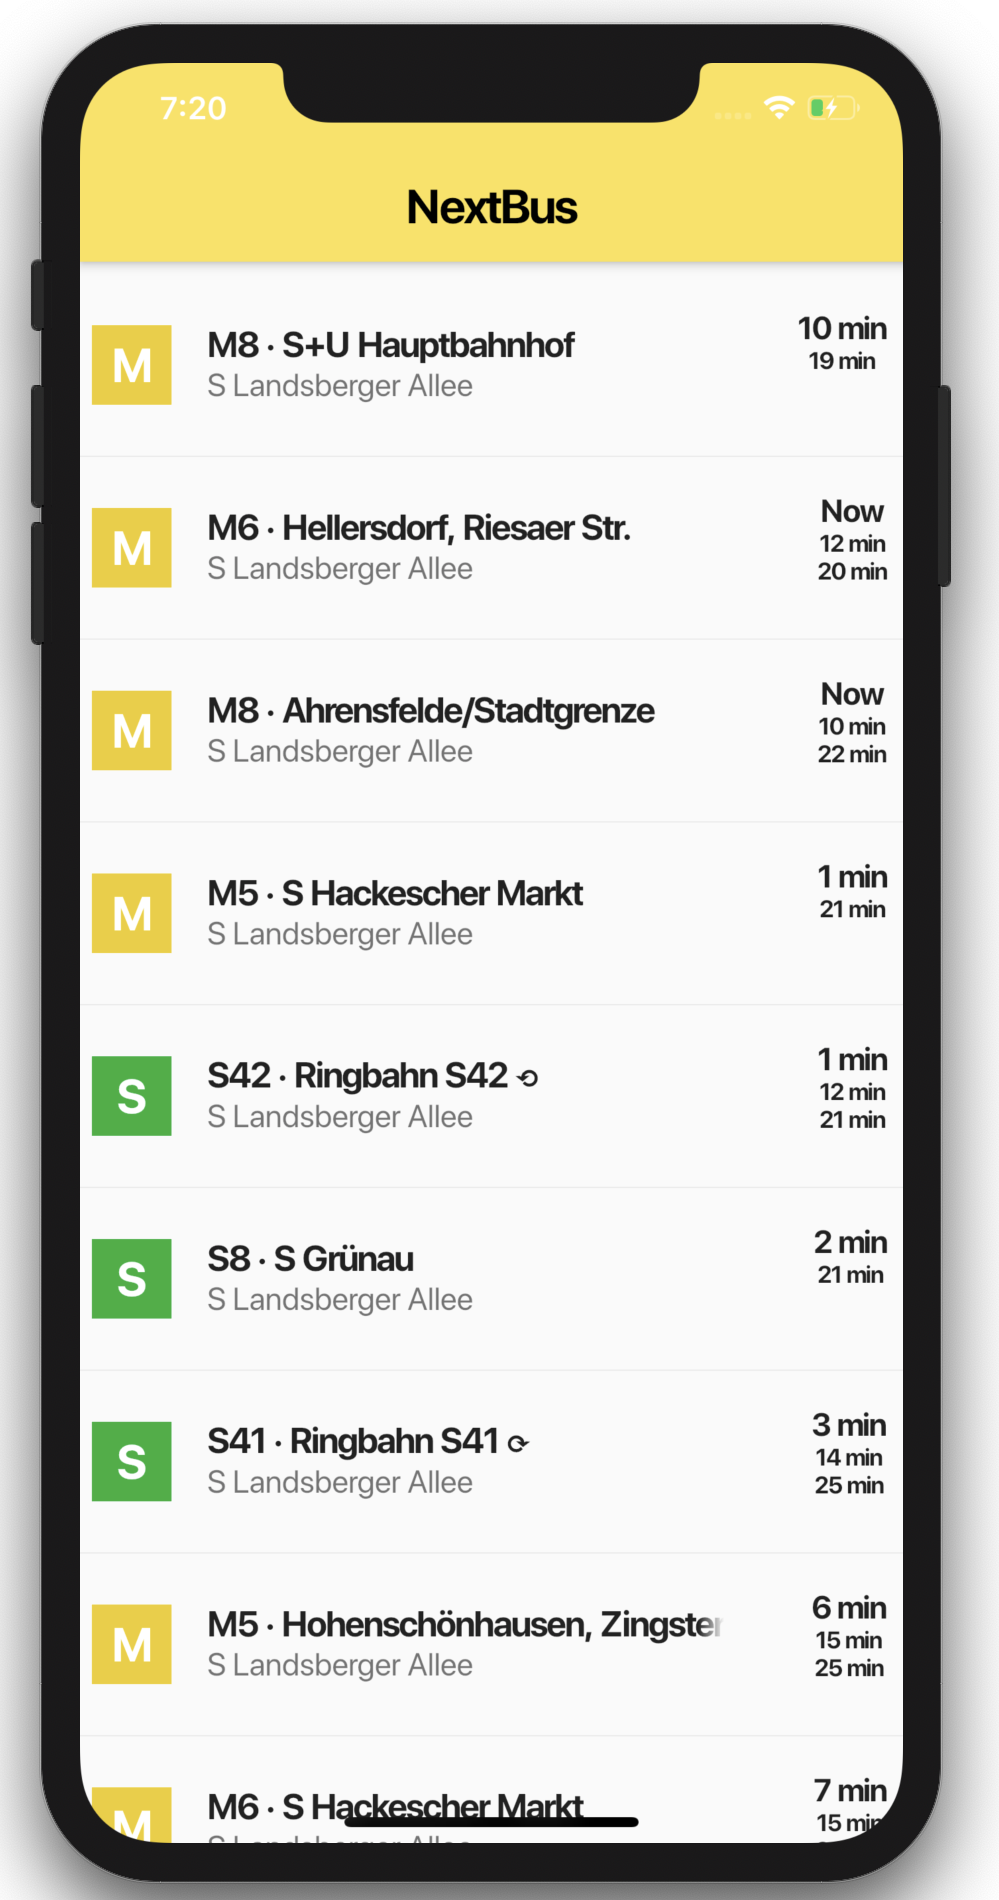
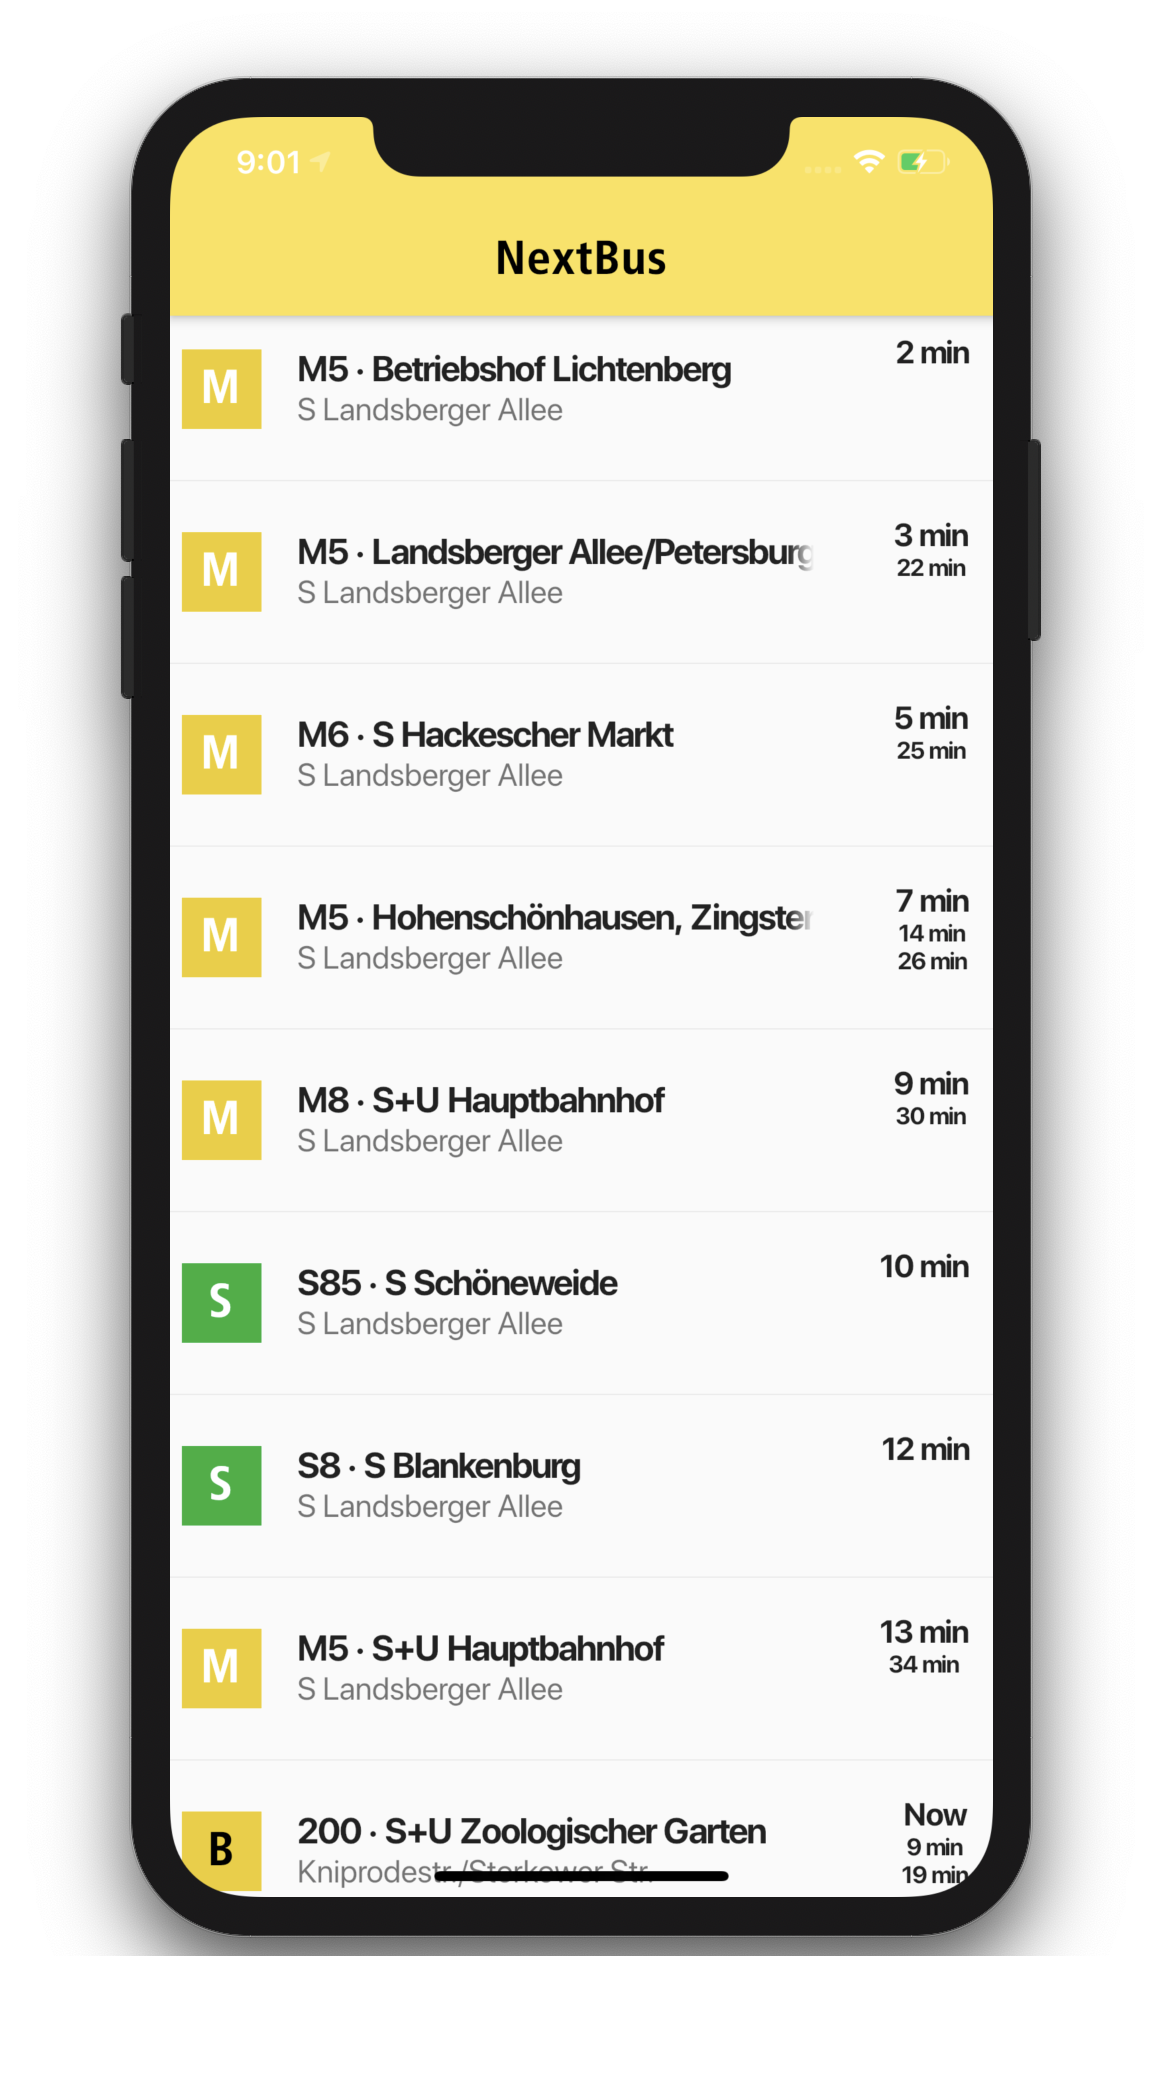
feat: add new fonts

diff --git a/lib/widgets/departure_view.dart b/lib/widgets/departure_view.dart
@@ -1,12 +1,11 @@
 import 'dart:async';
 
 import 'package:flutter/material.dart';
+import 'package:geolocator/geolocator.dart';
 import 'package:next_bus/models/network_error.dart';
 import 'package:next_bus/models/transit_departure.dart';
 import 'package:next_bus/network/api_client.dart';
 import 'package:next_bus/widgets/departure_list.dart';
-
-import 'package:geolocator/geolocator.dart';
 
 class DepartureView extends StatefulWidget {
   @override
@@ -16,6 +15,29 @@ class DepartureView extends StatefulWidget {
 class DepartureViewState extends State<DepartureView> {
   List<TransitDeparture> allDepartures;
   Timer timer;
+  GeolocationStatus geolocationStatus;
+
+  @override
+  Widget build(BuildContext context) {
+    final headerTitleStyle = TextStyle(
+        fontSize: 24, fontWeight: FontWeight.bold, color: Color(0xff000000), fontFamily: "TransitBold",);
+    return new Scaffold(
+      appBar: new AppBar(
+        title: new Text("NextBus", style: headerTitleStyle),
+        backgroundColor: Color(0xffFBE352),
+      ),
+      body: new Container(
+        child: new Center(
+            child: new RefreshIndicator(
+          backgroundColor: Color(0xffFBE352),
+          color: Color(0xff000000),
+          child: new DepartureList(
+              departures: allDepartures, geolocationStatus: geolocationStatus),
+          onRefresh: _refreshDepartures,
+        )),
+      ),
+    );
+  }
 
   @override
   void initState() {
@@ -25,11 +47,10 @@ class DepartureViewState extends State<DepartureView> {
     _refreshDepartures();
   }
 
-  Future<void> _refreshDepartures() async {
+  Future<Null> _refreshDepartures() async {
     debugPrint('Refreshing departures...');
+    geolocationStatus = await Geolocator().checkGeolocationPermissionStatus();
 
-    GeolocationStatus geolocationStatus =
-        await Geolocator().checkGeolocationPermissionStatus();
     if (geolocationStatus == GeolocationStatus.denied) {
       _showLocationDialog();
       debugPrint("No location permission available.");
@@ -38,16 +59,16 @@ class DepartureViewState extends State<DepartureView> {
     Position position = await Geolocator()
         .getCurrentPosition(desiredAccuracy: LocationAccuracy.high);
     debugPrint("Found Location: $position");
-    BVGAPIClient.getDeparturesNearby(position.latitude, position.longitude)
-        .then((result) {
-      setState(() {
-        if (result.runtimeType == NetworkError) {
-          print(result.message);
-          // @TODO: Handle network errors better.
-        } else {
-          this.allDepartures = result;
-        }
-      });
+
+    var result = await BVGAPIClient.getDeparturesNearby(
+        position.latitude, position.longitude);
+    setState(() {
+      if (result.runtimeType == NetworkError) {
+        print(result.message);
+        // @TODO: Handle network errors better.
+      } else {
+        this.allDepartures = result;
+      }
     });
   }
 
@@ -59,37 +80,19 @@ class DepartureViewState extends State<DepartureView> {
         // return object of type Dialog
         return AlertDialog(
           title: new Text("Location Sharing Disabled"),
-          content: new Text("NextBus needs to know where you are to get stops that are near you. We do not save or share your location."),
+          content: new Text(
+              "NextBus needs to know where you are to get stops that are near you. We do not save or share your location."),
           actions: <Widget>[
             // usually buttons at the bottom of the dialog
             new FlatButton(
-              child: new Text("Close")
+              child: new Text("Close"),
+              onPressed: () {
+                Navigator.of(context).pop();
+              },
             ),
           ],
         );
       },
-    );
-  }
-
-
-  @override
-  Widget build(BuildContext context) {
-    final headerTitleStyle = TextStyle(
-        fontSize: 24, fontWeight: FontWeight.bold, color: Color(0xff000000));
-    return new Scaffold(
-      appBar: new AppBar(
-        title: new Text("NextBus", style: headerTitleStyle),
-        backgroundColor: Color(0xffFBE352),
-      ),
-      body: new Container(
-        child: new Center(
-            child: new RefreshIndicator(
-          child: new DepartureList(
-            departures: allDepartures,
-          ),
-          onRefresh: _refreshDepartures,
-        )),
-      ),
     );
   }
 }

diff --git a/lib/widgets/departure_list.dart b/lib/widgets/departure_list.dart
@@ -1,12 +1,15 @@
 import 'package:flutter/material.dart';
+import 'package:geolocator/geolocator.dart';
 import 'package:next_bus/models/transit_departure.dart';
 import 'package:next_bus/models/transit_style.dart';
 
 // A UI to show the list of departures with pull-to-refresh feature.
 class DepartureList extends StatefulWidget {
-  DepartureList({Key key, this.departures}) : super(key: key);
+  DepartureList({Key key, this.departures, this.geolocationStatus})
+      : super(key: key);
 
   final List<TransitDeparture> departures;
+  GeolocationStatus geolocationStatus;
 
   @override
   State<StatefulWidget> createState() {
@@ -18,7 +21,34 @@ class DepartureList extends StatefulWidget {
 class _DepartureListState extends State<DepartureList> {
   @override
   Widget build(BuildContext context) {
-    return _buildDepartureList(context, widget.departures);
+    return _buildDepartureList(
+        context, widget.departures, widget.geolocationStatus);
+  }
+
+  ListTile _buildItemsForEmptyListView(BuildContext context, int index) {
+    return ListTile(
+      contentPadding: EdgeInsets.only(
+          top: index == 0 ? 16.0 : 2.0, bottom: 2.0, right: 4.0, left: 4.0),
+      title: Text("↻ Pull to Refresh",
+          softWrap: false,
+          textAlign: TextAlign.center,
+          overflow: TextOverflow.fade,
+          style: TextStyle(
+              fontSize: 18,
+              fontWeight: FontWeight.bold,
+              color: Color(0x66444444))),
+      subtitle: Text(
+          widget.geolocationStatus != GeolocationStatus.granted
+              ? "Enable Location Permissions for NextBus to continue."
+              : "",
+          softWrap: false,
+          textAlign: TextAlign.center,
+          overflow: TextOverflow.fade,
+          style: TextStyle(
+              fontSize: 16,
+              fontWeight: FontWeight.bold,
+              color: Color(0x66444444))),
+    );
   }
 
   ListTile _buildItemsForListView(BuildContext context, int index) {
@@ -55,6 +85,7 @@ class _DepartureListState extends State<DepartureList> {
             style: TextStyle(
                 fontSize: 24,
                 fontWeight: FontWeight.bold,
+                fontFamily: "TransitBold",
                 color: transitStyle.textColor)));
   }
 
@@ -83,7 +114,7 @@ class _DepartureListState extends State<DepartureList> {
     }
 
     return Container(
-      padding: EdgeInsets.only(right: 4.0, left: 0.0, top: 0.0),
+      padding: EdgeInsets.only(right: 8.0, left: 0.0, top: 0.0),
       margin: EdgeInsets.all(0),
       width: 70,
       alignment: Alignment.topRight,
@@ -93,12 +124,15 @@ class _DepartureListState extends State<DepartureList> {
     );
   }
 
-  ListView _buildDepartureList(context, List<TransitDeparture> departures) {
+  ListView _buildDepartureList(context, List<TransitDeparture> departures,
+      GeolocationStatus geolocationStatus) {
     return new ListView.separated(
       physics: AlwaysScrollableScrollPhysics(),
       separatorBuilder: (BuildContext context, int index) => Divider(),
-      itemCount: departures != null ? departures.length : 0,
-      itemBuilder: _buildItemsForListView,
+      itemCount: departures != null ? departures.length : 1,
+      itemBuilder: departures != null
+          ? _buildItemsForListView
+          : _buildItemsForEmptyListView,
     );
   }
 }

diff --git a/lib/models/transit_departure.dart b/lib/models/transit_departure.dart
@@ -42,16 +42,16 @@ class TransitDeparture {
   factory TransitDeparture.fromJson(Map<String, dynamic> json) {
     int delay = json["line"]["delay"] == null ? 0 : json["line"]["delay"];
     DateTime departureTime;
-    if(json['when'] != null) {
+    if (json['when'] != null) {
       departureTime =
-      DateTime.parse(json['when']).add(Duration(minutes: delay));
+          DateTime.parse(json['when']).add(Duration(minutes: delay));
     }
     TransitType type = TransitType.values.firstWhere(
         (e) => e.toString() == "TransitType.${json["line"]["product"]}");
 
     return TransitDeparture(
         direction: json["direction"],
-        when: departureTime == null ? Set() :Set.from([departureTime]),
+        when: departureTime == null ? Set() : Set.from([departureTime]),
         name: json["line"]["name"],
         transitType: type,
         isNight: json["line"]["night"],
@@ -98,7 +98,7 @@ class TransitDepartureList {
   List<TransitDeparture> groupedDepartures() {
     Map<String, TransitDeparture> groupedDepartures = Map();
     for (TransitDeparture departure in this.departures) {
-      if(departure.when.length <= 0) {
+      if (departure.when.length <= 0) {
         continue;
       }
       var key = "${departure.name}/${departure.direction}";

diff --git a/lib/models/network_error.dart b/lib/models/network_error.dart
@@ -10,7 +10,8 @@ class NetworkError {
   NetworkError({this.message, this.headerCode, this.response, this.requestURL});
 
   factory NetworkError.fromResponse(Response response) {
-    return NetworkError(message: response.data,
+    return NetworkError(
+        message: response.data,
         headerCode: response.statusCode,
         requestURL: response.request.uri,
         response: response);

diff --git a/lib/models/transit_type.dart b/lib/models/transit_type.dart
@@ -1,10 +1,2 @@
 // Enumeration to store the various transport modes that is available in Berlin.
-enum TransitType {
-  bus,
-  subway,
-  suburban,
-  tram,
-  express,
-  ferry,
-  regional
-}
+enum TransitType { bus, subway, suburban, tram, express, ferry, regional }

diff --git a/README.md b/README.md
@@ -2,7 +2,13 @@
 - Simple app to find the relevant departures from your current location.
 - Build only for Berlin transit.
 - Uses BVG API as described in https://github.com/derhuerst/bvg-rest/blob/2/docs/index.md
-- Uses Flutter to build both iOS and Android app (Read Flutter documentation - https://flutter.dev/docs/get-started/codelab on how to build the code)
+- Uses Flutter to build both iOS and Android app.
+
+ ## Build
+ - Read Flutter documentation on how to install Flutter and configure your IDE - https://flutter.dev/docs/get-started/
+ - Clone the repository.
+ - Run `flutter pub get` to install packages used in the projects.
+ - Open Android studio and run on any simulator or device.
 
 <img src="documentation/departure_list.png" width="250" />
 
